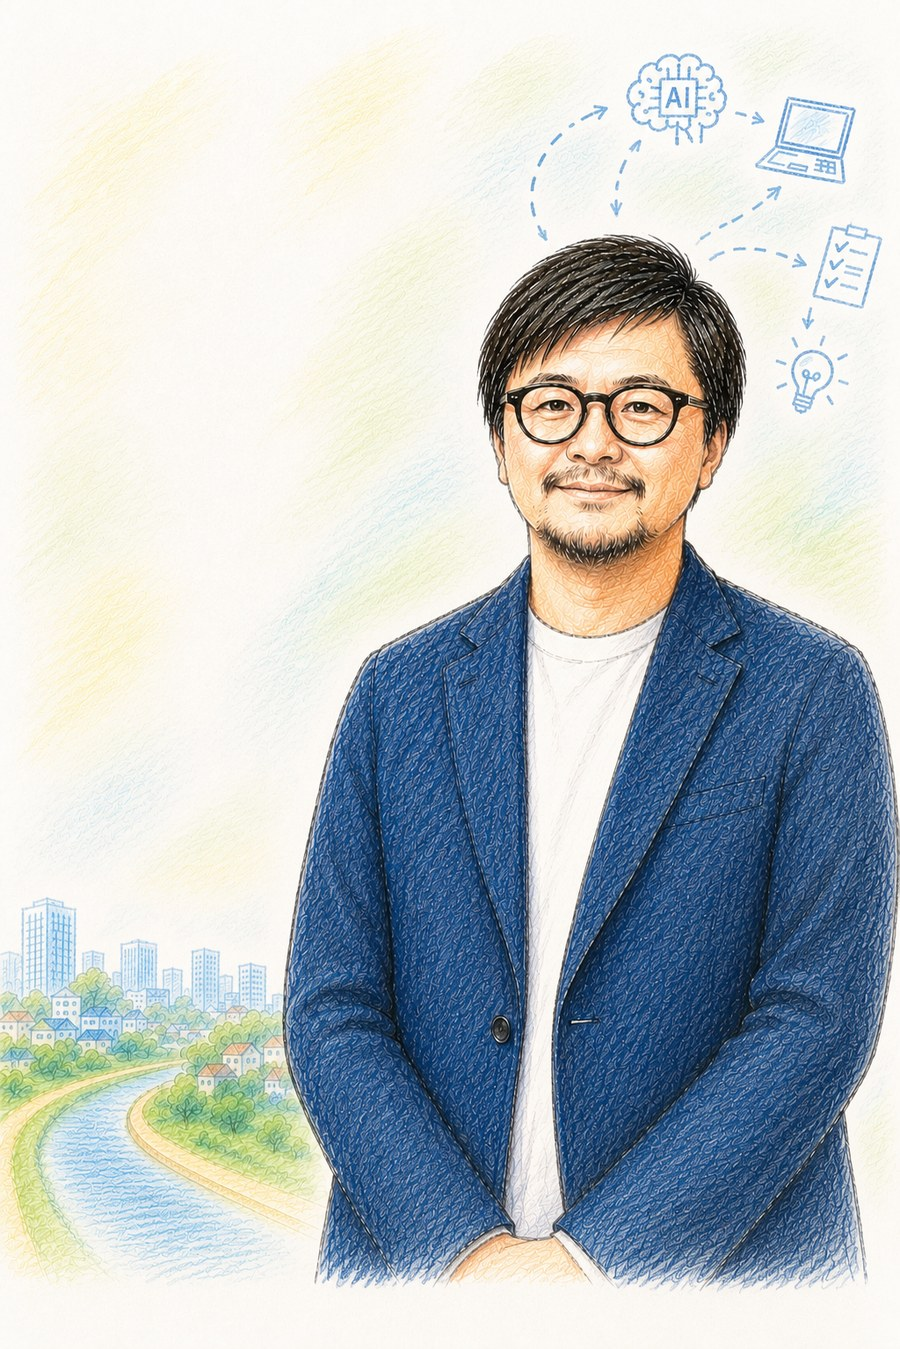
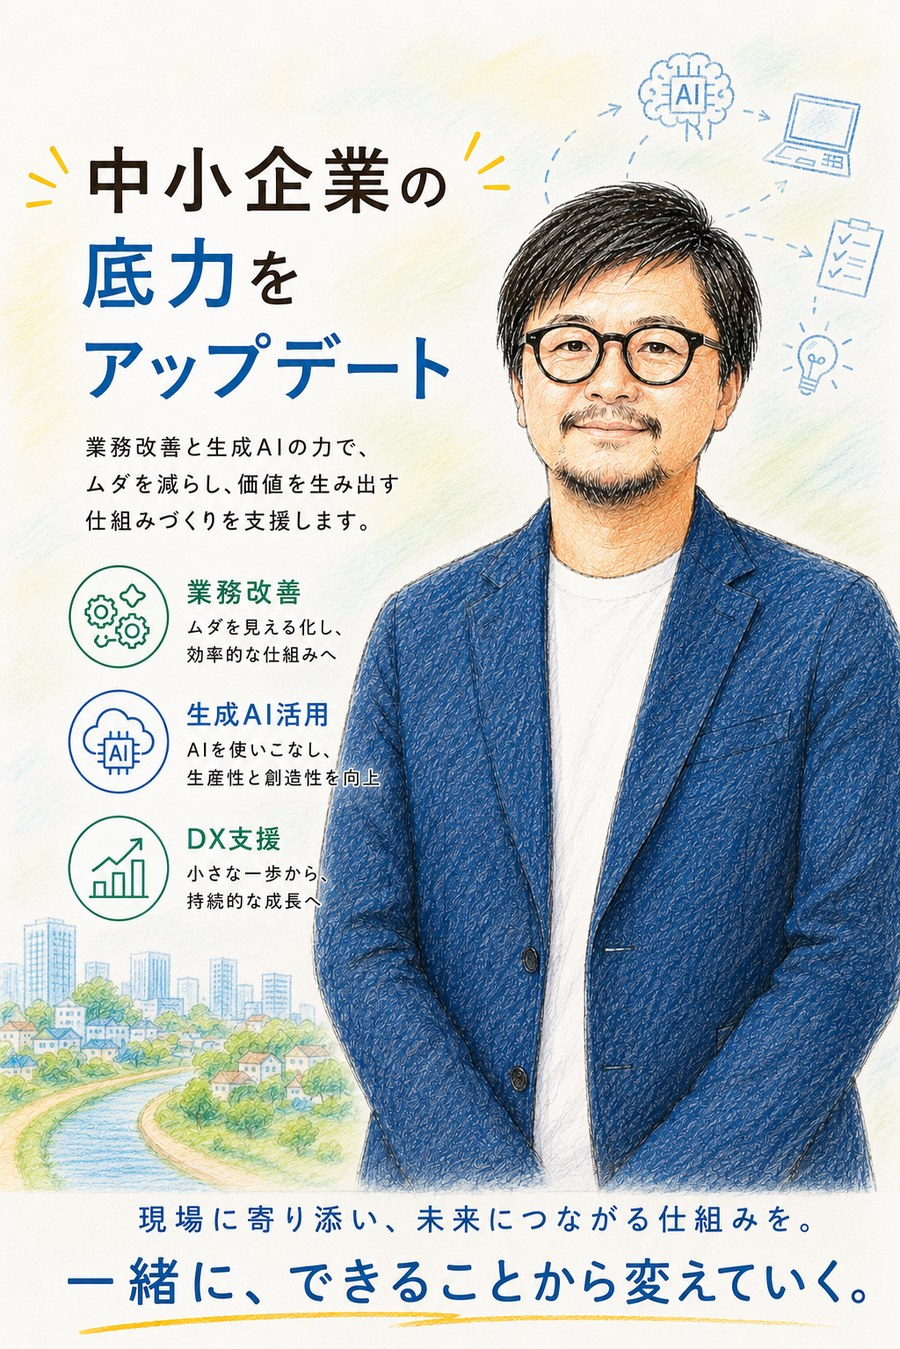
fix: profile.htmlヒーローをClaude Design完成図と一致させる
前回テキストなし版に差し替えたのは判断ミスで、正しくはテキスト入り版
（キャッチコピー・アイコン付きの元画像）がClaude Design側の完成図
（PATTERN C）と一致する参照だった。

- assets/profile-portrait-2.jpg を元画像（テキスト入り）から再生成
- h1見出しをClaude Design案の「「難しそう」を、いっしょに越えていく。」
  に変更。ただしリード文の経歴詳細は事実確認済みの内容を維持し、
  Claude Design側の未確認の経歴表現（大企業のシステム開発）・肩書き
  （AI活用アドバイザー）・CTAボタン（予約導線）は採用しない

diff --git a/profile.html b/profile.html
@@ -180,7 +180,7 @@ img,svg{display:block;max-width:100%}
     </div>
     <div class="txt">
       <span class="badge"><span class="dot"></span>PROFILE ─ 代表者プロフィール</span>
-      <h1>多様な経歴を、AI活用支援という<br>一つの力にしています。</h1>
+      <h1>「難しそう」を、<br>いっしょに越えていく。</h1>
       <p class="lead">パソコン講師・NPO法人代表・Webディレクター・企業の課長職・DX推進担当・専門学校の担任——立場も業界も異なる7つの経歴を経て、AIプロダクト開発に至りました。それぞれの経験が、ざつね屋の「教えられる実装者」「現場目線の伴走」という強みにつながっています。</p>
     </div>
   </div>